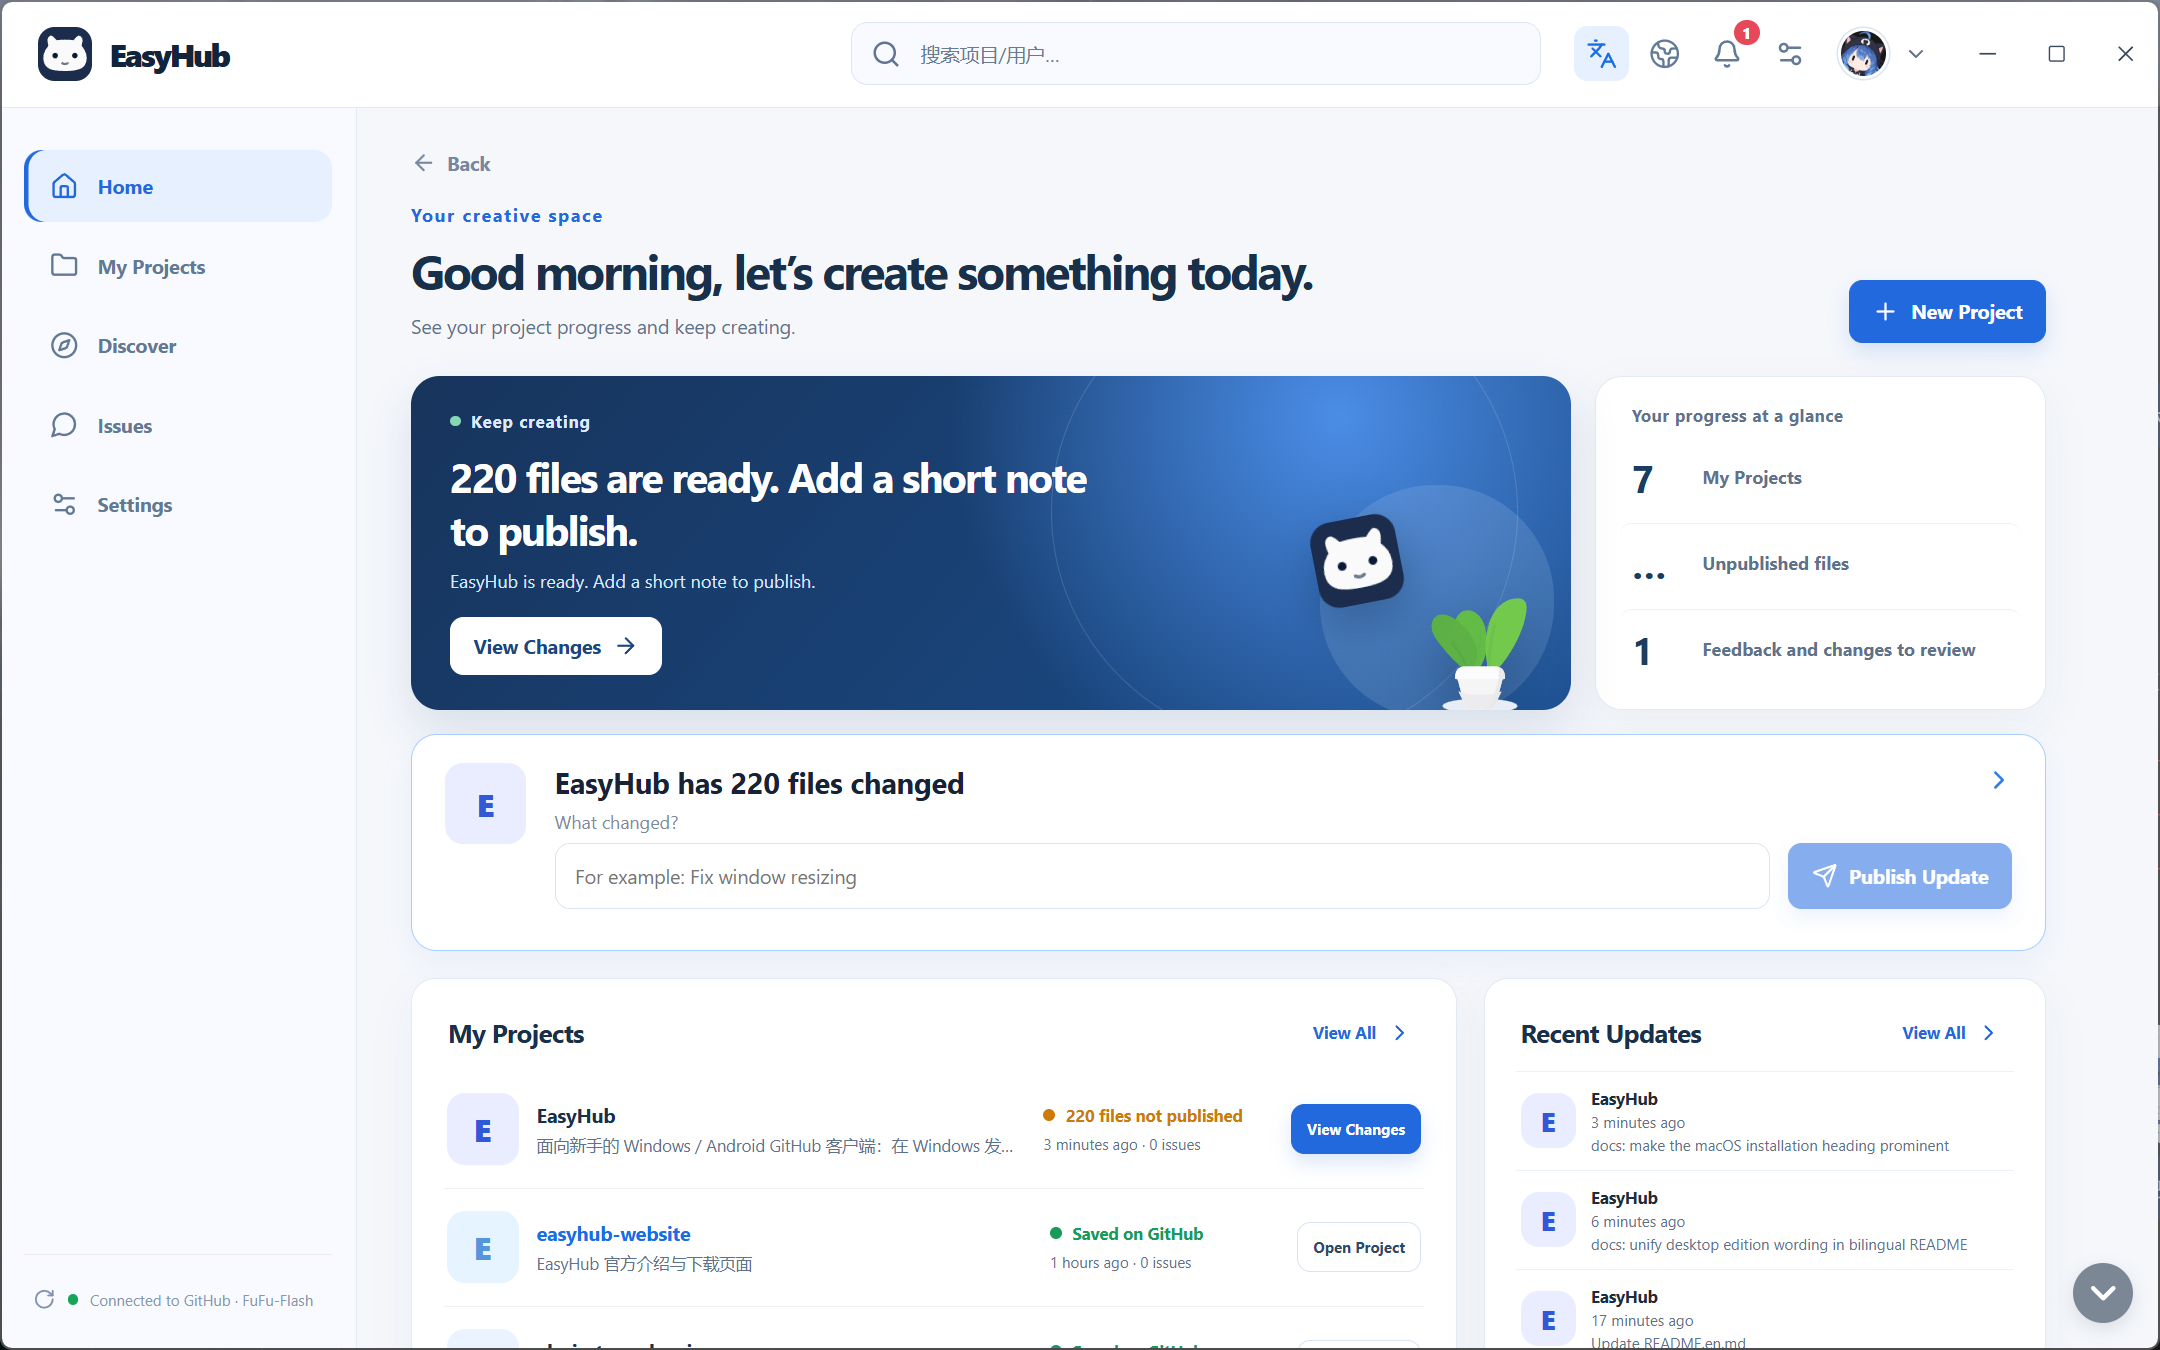
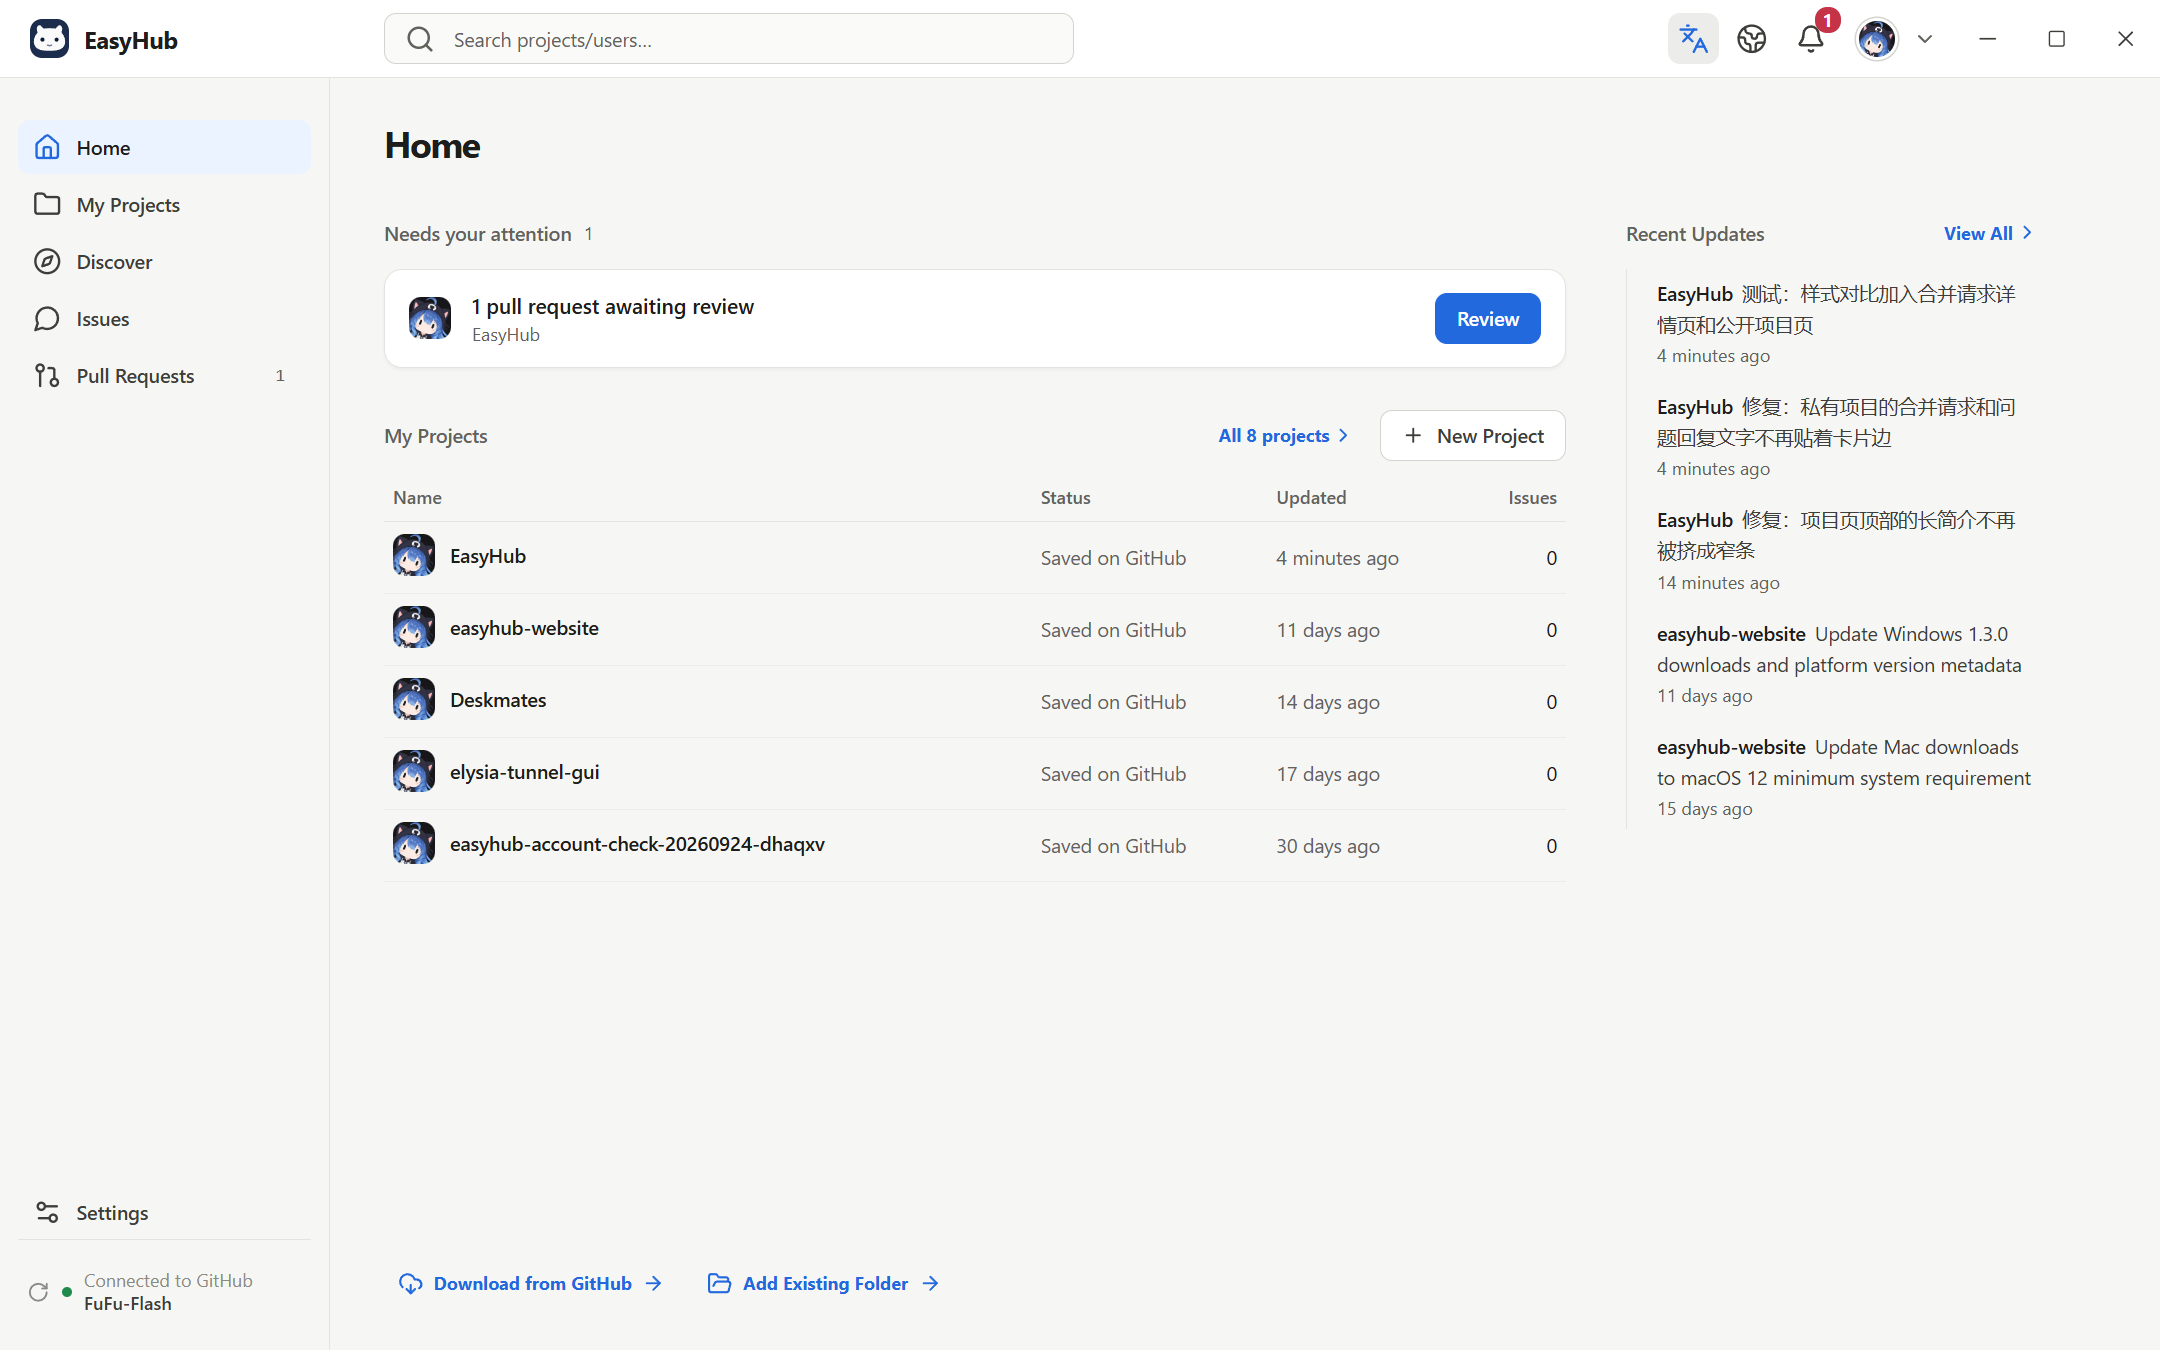
文档：README 换上 1.4.0 新首页截图
- 中英文首页截图换成新版“等你处理 / 我的项目 / 最近更新”界面
- 截图说明文字同步新首页结构

diff --git a/README.en.md b/README.en.md
@@ -5,7 +5,7 @@
   </tr>
   <tr>
     <td><a href="docs/images/terminal-errors.png"><img src="docs/images/terminal-errors.png" alt="Illustrative Git commands and errors in a dark terminal" width="640"></a></td>
-    <td><a href="docs/images/easyhub-client-en.png"><img src="docs/images/easyhub-client-en.png" alt="EasyHub home screen with project overview, my projects and recent updates" width="640"></a></td>
+    <td><a href="docs/images/easyhub-client-en.png"><img src="docs/images/easyhub-client-en.png" alt="EasyHub home screen with items that need your attention, my projects and recent updates" width="640"></a></td>
   </tr>
   <tr>
     <td align="center">Illustrative terminal errors</td>

diff --git a/README.md b/README.md
@@ -5,7 +5,7 @@
   </tr>
   <tr>
     <td><a href="docs/images/terminal-errors.png"><img src="docs/images/terminal-errors.png" alt="黑色终端中的 Git 命令与报错示意" width="640"></a></td>
-    <td><a href="docs/images/easyhub-client.png"><img src="docs/images/easyhub-client.png" alt="EasyHub 客户端主页：项目概览、我的项目与最近更新" width="640"></a></td>
+    <td><a href="docs/images/easyhub-client.png"><img src="docs/images/easyhub-client.png" alt="EasyHub 客户端首页：等你处理、我的项目与最近更新" width="640"></a></td>
   </tr>
   <tr>
     <td align="center">终端报错示意</td>
